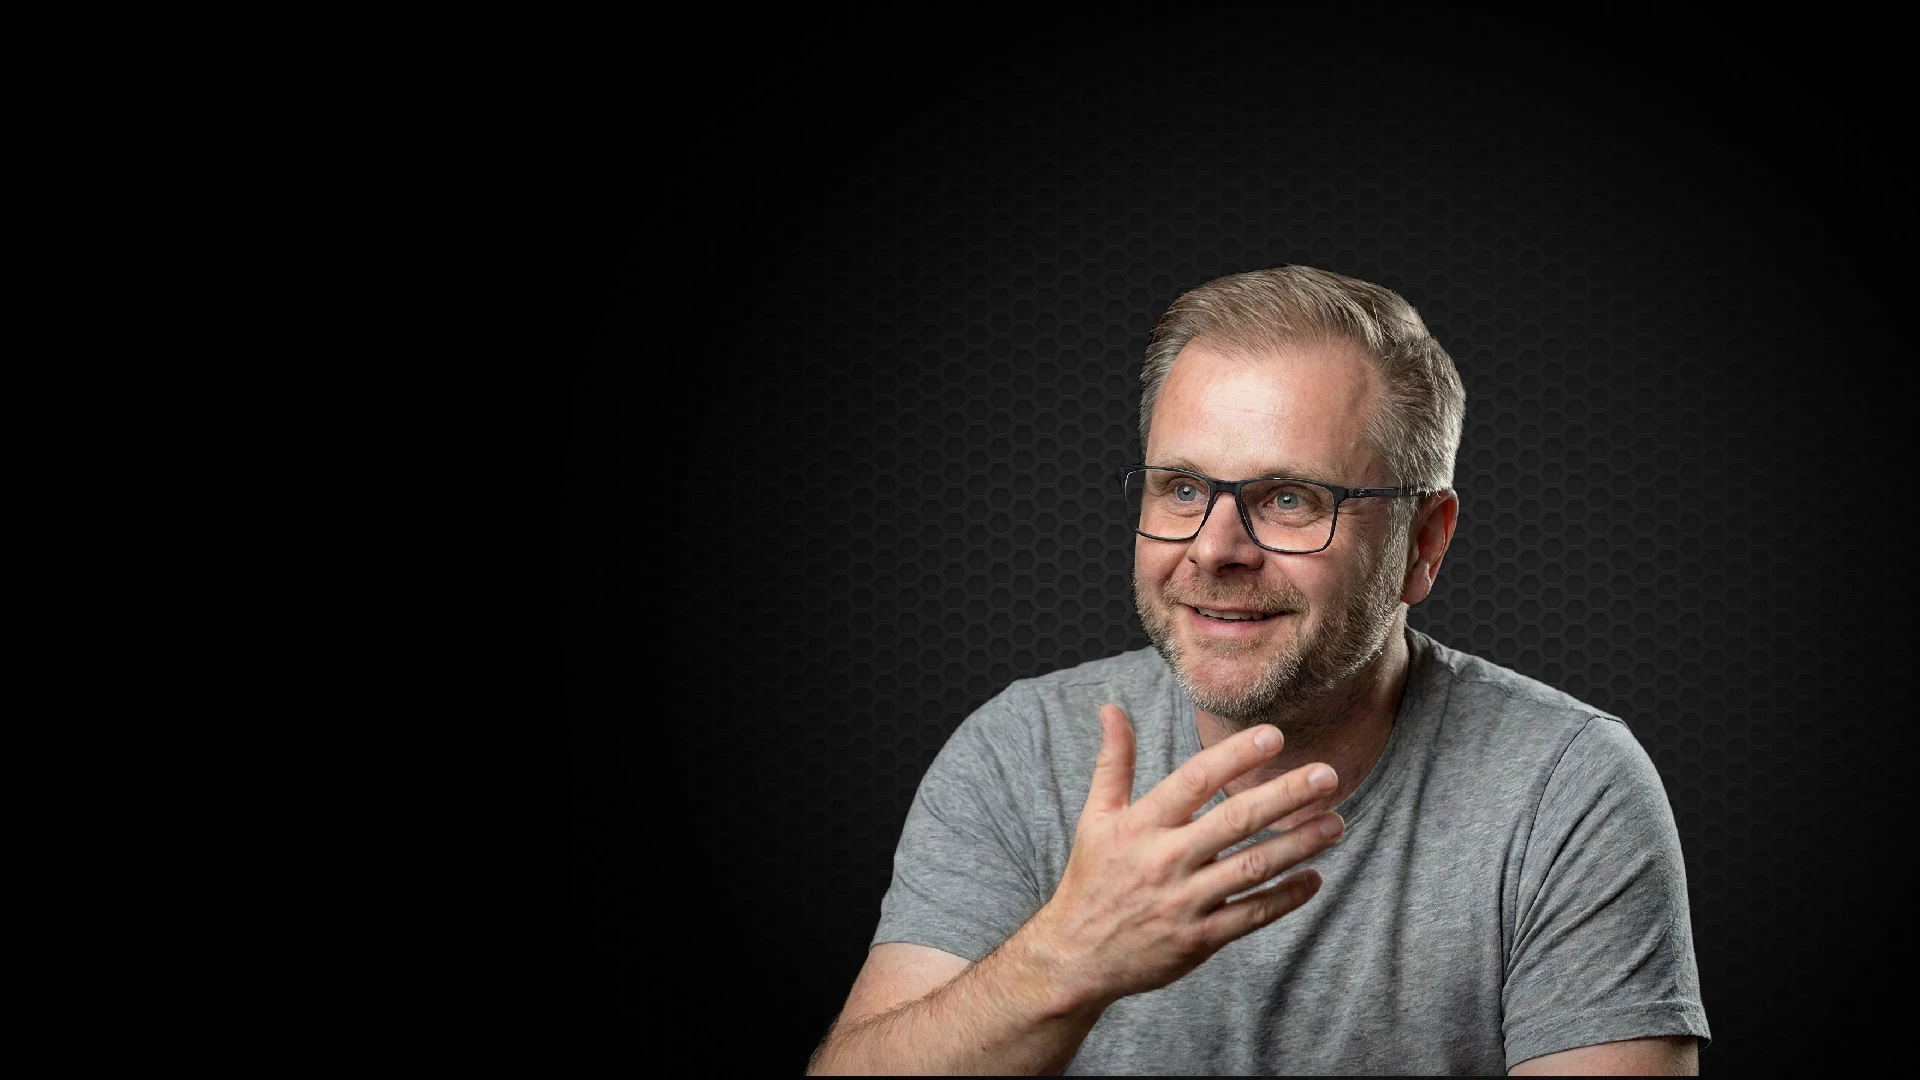
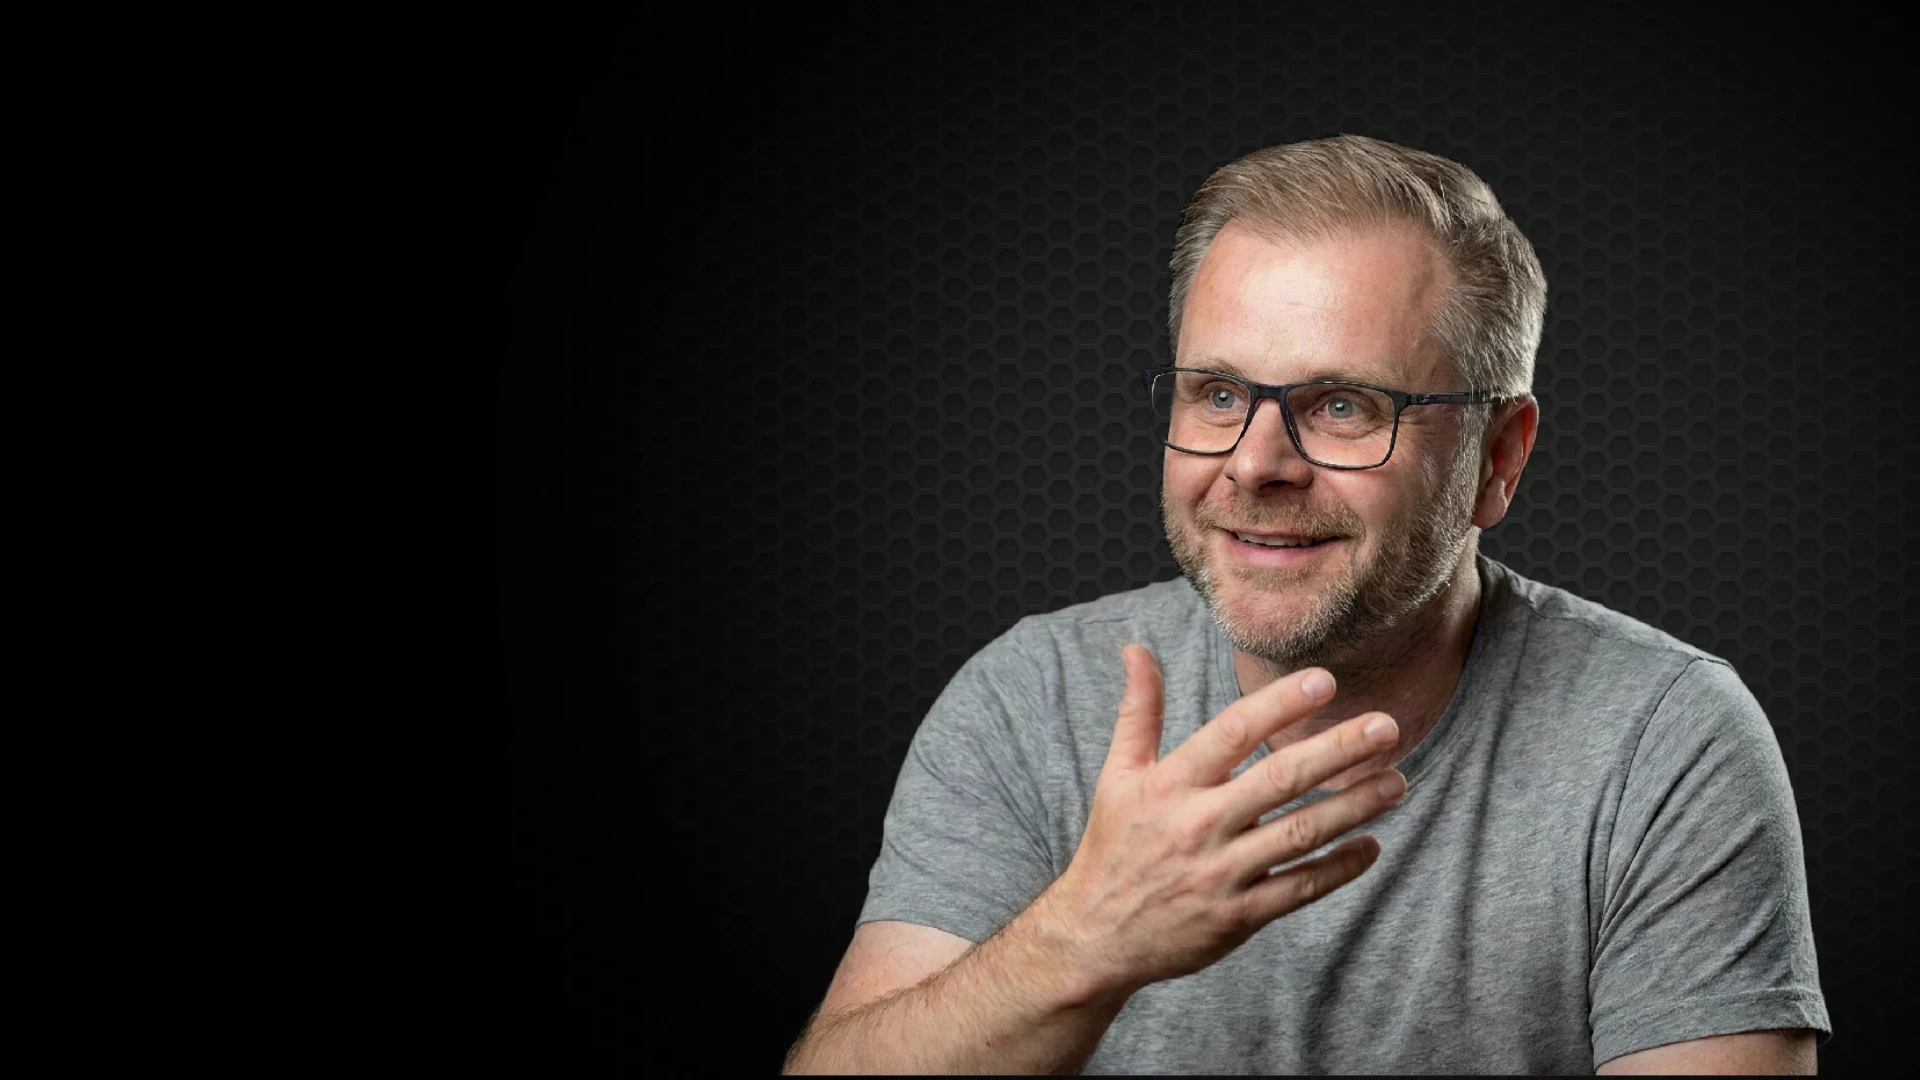
fix: update podcast RSS artwork and include transcripts

Changed region(s): [[0.4062, 0.1222, 0.9688, 1.0]]

diff --git a/server/routes/podcast.xml.get.ts b/server/routes/podcast.xml.get.ts
@@ -22,12 +22,10 @@ export default defineEventHandler(async (event) => {
     .sort((a, b) => (b.published ?? '').localeCompare(a.published ?? '') || b.id.localeCompare(a.id))
 
   const coverUrl = (path: string, title: string, image: string) => getOgImageUrl(event, path, {
-    component: 'Article', width: 1400, height: 1400, extension: 'png',
-    props: { title, image, format: 'podcast', podcast: path === '/podcast' || path.startsWith('/podcast/') },
+    component: 'Article', key: 'podcast', width: 1400, height: 1400, extension: 'png',
+    props: { title, image, layout: 'default', format: 'podcast', podcast: path.startsWith('/podcast/') },
   })
-  const channelImage = episodes[0]?.thumbnail ?? items[0]?.thumbnail
-  const channelCover = podcast.cover ? absoluteUrl(podcast.cover)
-    : channelImage ? coverUrl('/podcast', 'Jednadvacet podcast', channelImage) : undefined
+  const channelCover = absoluteUrl(podcast.cover)
 
   const xmlItems = items.map(item => {
     const link = absoluteUrl(item.path)
@@ -41,10 +39,11 @@ export default defineEventHandler(async (event) => {
       <description>${escapeXml(item.description)}</description>
       ${item.published ? `<pubDate>${new Date(`${item.published}T00:00:00Z`).toUTCString()}</pubDate>` : ''}
       <enclosure url="${escapeXml(item.audio!)}"${item.audioLength ? ` length="${item.audioLength}"` : ''} type="${mimeType}" />
+      ${item.subtitles ? `<podcast:transcript url="${escapeXml(item.subtitles)}" type="application/x-subrip" language="cs" rel="captions" />` : ''}
       ${item.audioDuration ? `<itunes:duration>${item.audioDuration}</itunes:duration>` : ''}
       ${author ? `<itunes:author>${escapeXml(author)}</itunes:author>` : ''}
       <itunes:explicit>false</itunes:explicit>
-      <itunes:image href="${escapeXml(item.cover ? absoluteUrl(item.cover) : coverUrl(item.path, item.title, item.thumbnail))}" />
+      <itunes:image href="${escapeXml(coverUrl(item.path, item.title, item.thumbnail))}" />
       ${(item.categories ?? []).map(slug => `<category>${escapeXml(categoryNames.get(slug) ?? slug)}</category>`).join('\n')}
     </item>`
   }).join('\n')
@@ -56,7 +55,7 @@ export default defineEventHandler(async (event) => {
   })
 
   return `<?xml version="1.0" encoding="UTF-8"?>
-<rss version="2.0" xmlns:itunes="http://www.itunes.com/dtds/podcast-1.0.dtd" xmlns:atom="http://www.w3.org/2005/Atom">
+<rss version="2.0" xmlns:itunes="http://www.itunes.com/dtds/podcast-1.0.dtd" xmlns:atom="http://www.w3.org/2005/Atom" xmlns:podcast="https://podcastindex.org/namespace/1.0">
   <channel>
     <title>Jednadvacet podcast</title>
     <link>${escapeXml(absoluteUrl('/podcast'))}</link>
@@ -67,7 +66,7 @@ export default defineEventHandler(async (event) => {
     <itunes:owner><itunes:name>Jednadvacet</itunes:name><itunes:email>info@jednadvacet.org</itunes:email></itunes:owner>
     <itunes:explicit>false</itunes:explicit>
     <itunes:category text="Technology" />
-    ${channelCover ? `<itunes:image href="${escapeXml(channelCover)}" />` : ''}
+    <itunes:image href="${escapeXml(channelCover)}" />
     ${xmlItems}
   </channel>
 </rss>`

diff --git a/app/components/OgImage/Article.takumi.vue b/app/components/OgImage/Article.takumi.vue
@@ -22,11 +22,11 @@ interface FormatStyle {
 
 const formatStyles: Record<OgImageFormat, FormatStyle> = {
   landscape: { padding: 64, titleSize: 64, titleMaxWidth: 760, logoHeight: 56 },
-  square: { padding: 48, titleSize: 48, titleMaxWidth: 640, logoHeight: 48 },
+  square: { padding: 48, titleSize: 76.8, titleMaxWidth: 640, logoHeight: 48 },
   // Podcast covers are the 800 px square scaled to 1400 px (×1.75), so text
   // and logo keep the same proportions.
-  podcast: { padding: 84, titleSize: 84, titleMaxWidth: 1120, logoHeight: 84 },
-  portrait: { padding: 56, titleSize: 56, titleMaxWidth: 880, logoHeight: 52 },
+  podcast: { padding: 84, titleSize: 134.4, titleMaxWidth: 1120, logoHeight: 84 },
+  portrait: { padding: 56, titleSize: 89.6, titleMaxWidth: 880, logoHeight: 52 },
   // Stories display fullscreen on phones, so the title is doubled for legibility.
   story: { padding: 56, titleSize: 112, titleMaxWidth: 880, logoHeight: 52 },
   // YouTube thumbnails are mostly seen at search-result size, so the title
@@ -41,7 +41,7 @@ const style = computed<FormatStyle>(() => {
     padding: base.padding,
     titleSize: base.titleSize * (props.layout === 'host' ? 1.15 : 1),
     titleMaxWidth: base.titleMaxWidth,
-    logoHeight: base.logoHeight,
+    logoHeight: base.logoHeight * 0.7,
   }
 })
 

diff --git a/content.config.ts b/content.config.ts
@@ -25,6 +25,7 @@ const articleSchema = {
   published: property(z.string().optional()).editor({ hidden: true }),
   thumbnail: z.string(),
   audio: z.string().url().optional(),
+  subtitles: property(z.string().url().optional()).editor({ description: 'URL titulků ve formátu SRT pro podcastový feed. Časování musí odpovídat audiu.' }),
   audioDuration: property(z.number().int().positive().optional()).editor({ description: 'Délka audia v sekundách.' }),
   audioLength: property(z.number().int().positive().optional()).editor({ description: 'Velikost audio souboru v bajtech.' }),
   cover: property(z.string().optional()).editor({ description: 'Volitelný čtvercový obal podcastu. Bez něj se obal vygeneruje z náhledového obrázku.' }),

diff --git a/shared/data/social.ts b/shared/data/social.ts
@@ -8,8 +8,7 @@ export const socialLinks = [
 ]
 
 export const podcast = {
-  // Přidej čtvercový obal 3000 × 3000 px do public/images/podcast/cover.jpg a nastav '/images/podcast/cover.jpg'.
-  cover: undefined as string | undefined,
+  cover: '/images/podcast/channel-cover.jpeg',
   platforms: {
     rss: { label: 'Sleduj přes RSS', icon: 'i-lucide-rss', to: '/podcast.xml' },
     // TODO: Doplň adresy pořadu po zveřejnění v podcastových aplikacích.

diff --git a/content/podcast/20261020.jarda-peta-bitcoinova-komunita-v-cesku-s-kapitolami.md b/content/podcast/20261020.jarda-peta-bitcoinova-komunita-v-cesku-s-kapitolami.md
@@ -4,6 +4,7 @@ description: Jak funguje Jednadvacet a co přináší osobní setkávání? Jaro
 thumbnail: /images/podcast/jarda-peta.webp
 video: https://youtu.be/1TNbb2PwIKY
 audio: https://fra1.digitaloceanspaces.com/share-poboril/jak-na-manzelky-bitcoineru.m4a
+subtitles: https://files.jednadvacet.org/podcast/jarda-peta-bitcoinova-komunita-v-cesku.srt
 audioDuration: 1234
 authors:
   - jarda-peta

diff --git a/content/podcast/20261020.jarda-peta-bitcoinova-komunita-v-cesku.md b/content/podcast/20261020.jarda-peta-bitcoinova-komunita-v-cesku.md
@@ -4,6 +4,7 @@ description: Jak funguje Jednadvacet a co přináší osobní setkávání? Jaro
 thumbnail: /images/podcast/jarda-peta.webp
 video: https://youtu.be/1TNbb2PwIKY
 audio: https://fra1.digitaloceanspaces.com/share-poboril/jak-na-manzelky-bitcoineru.m4a
+subtitles: https://files.jednadvacet.org/podcast/jarda-peta-bitcoinova-komunita-v-cesku.srt
 audioDuration: 1234
 authors:
   - jarda-peta
